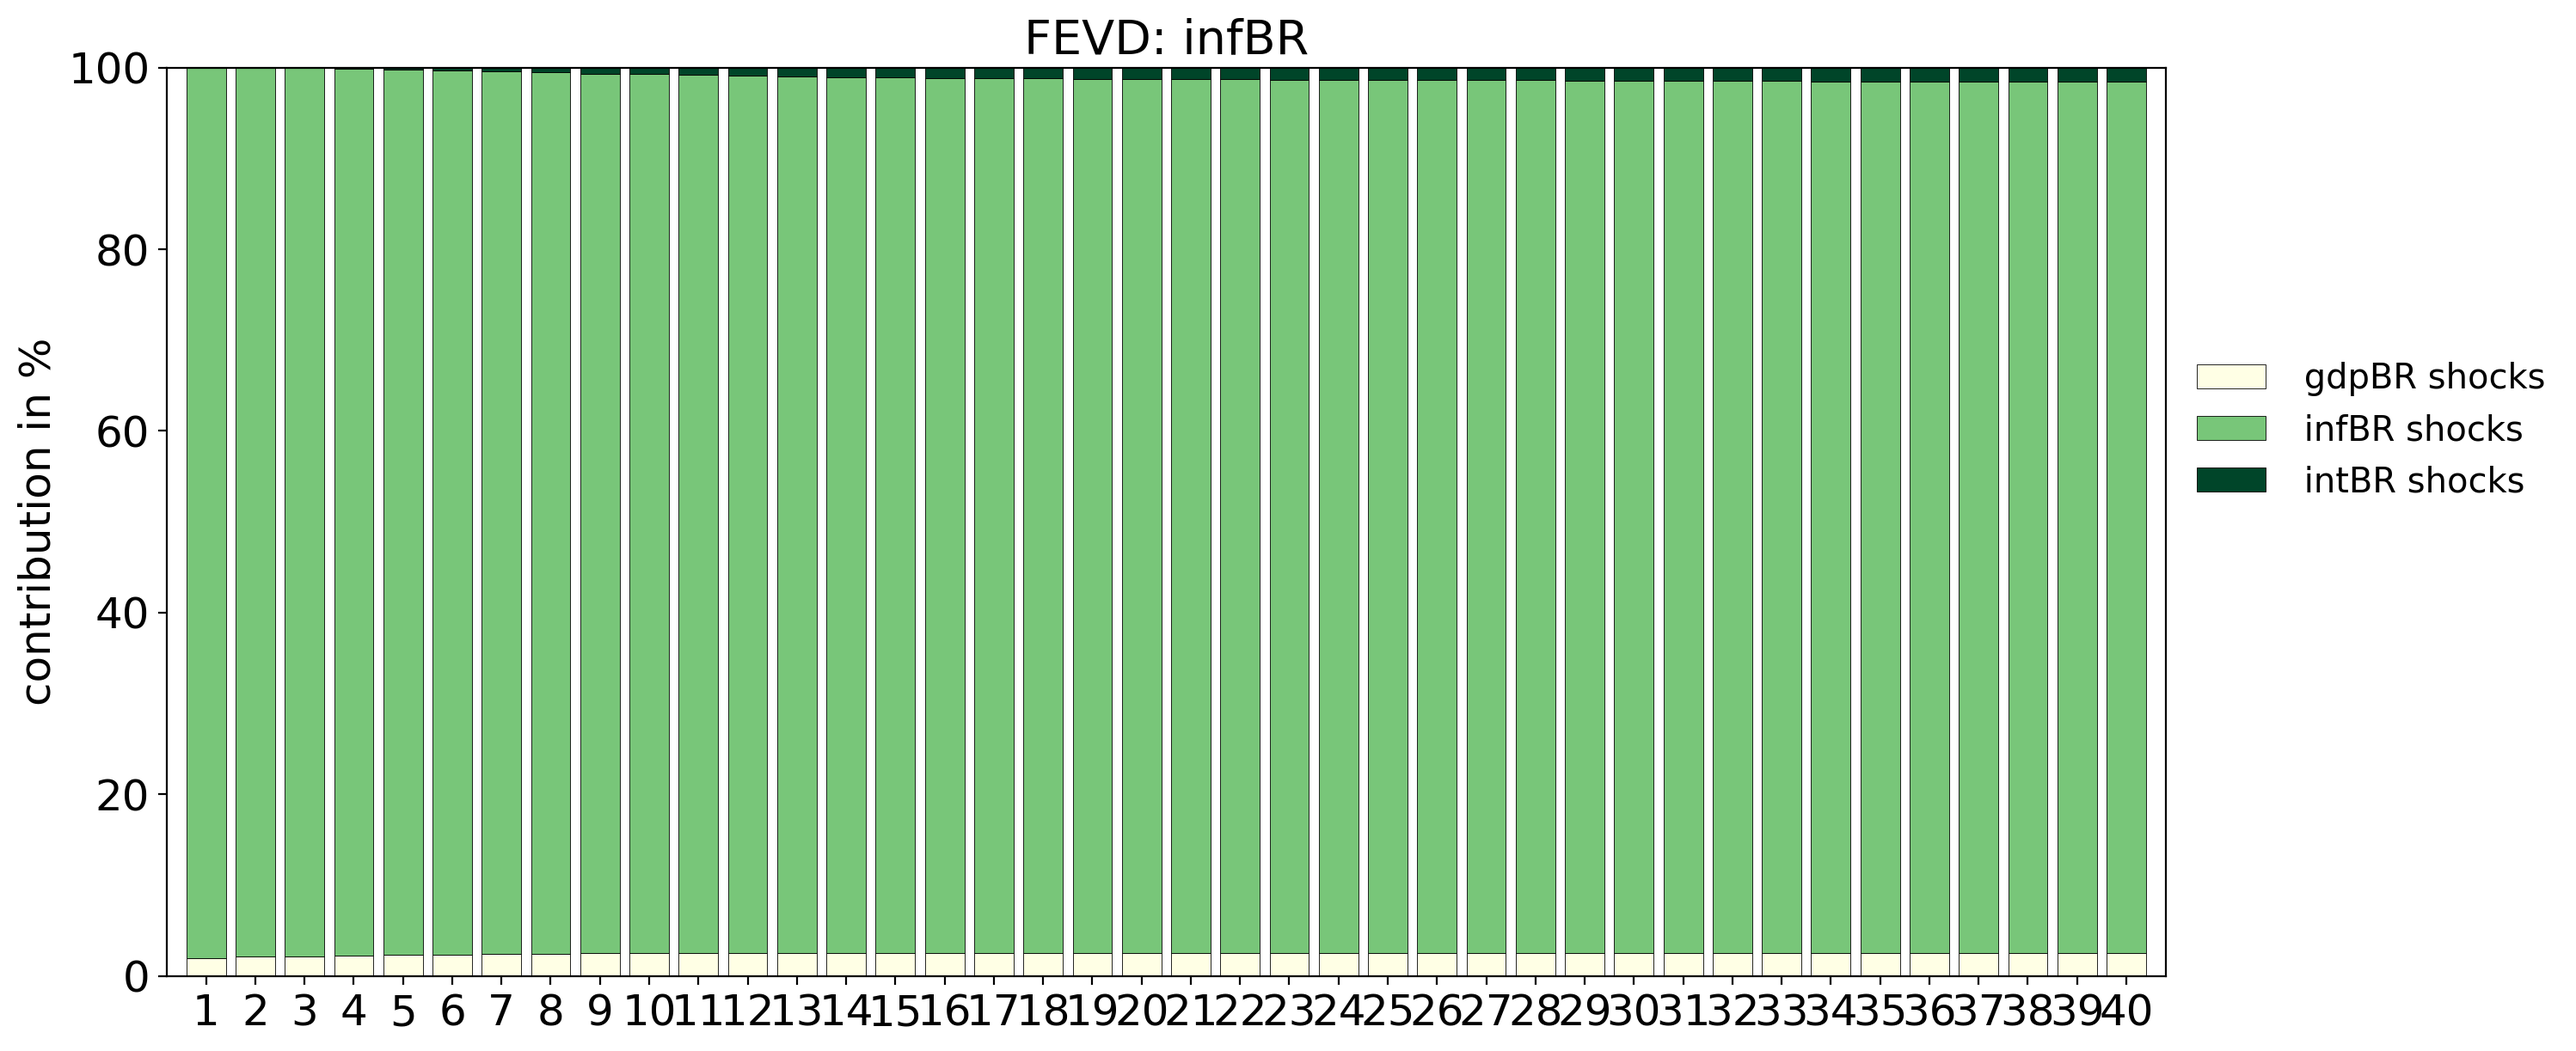
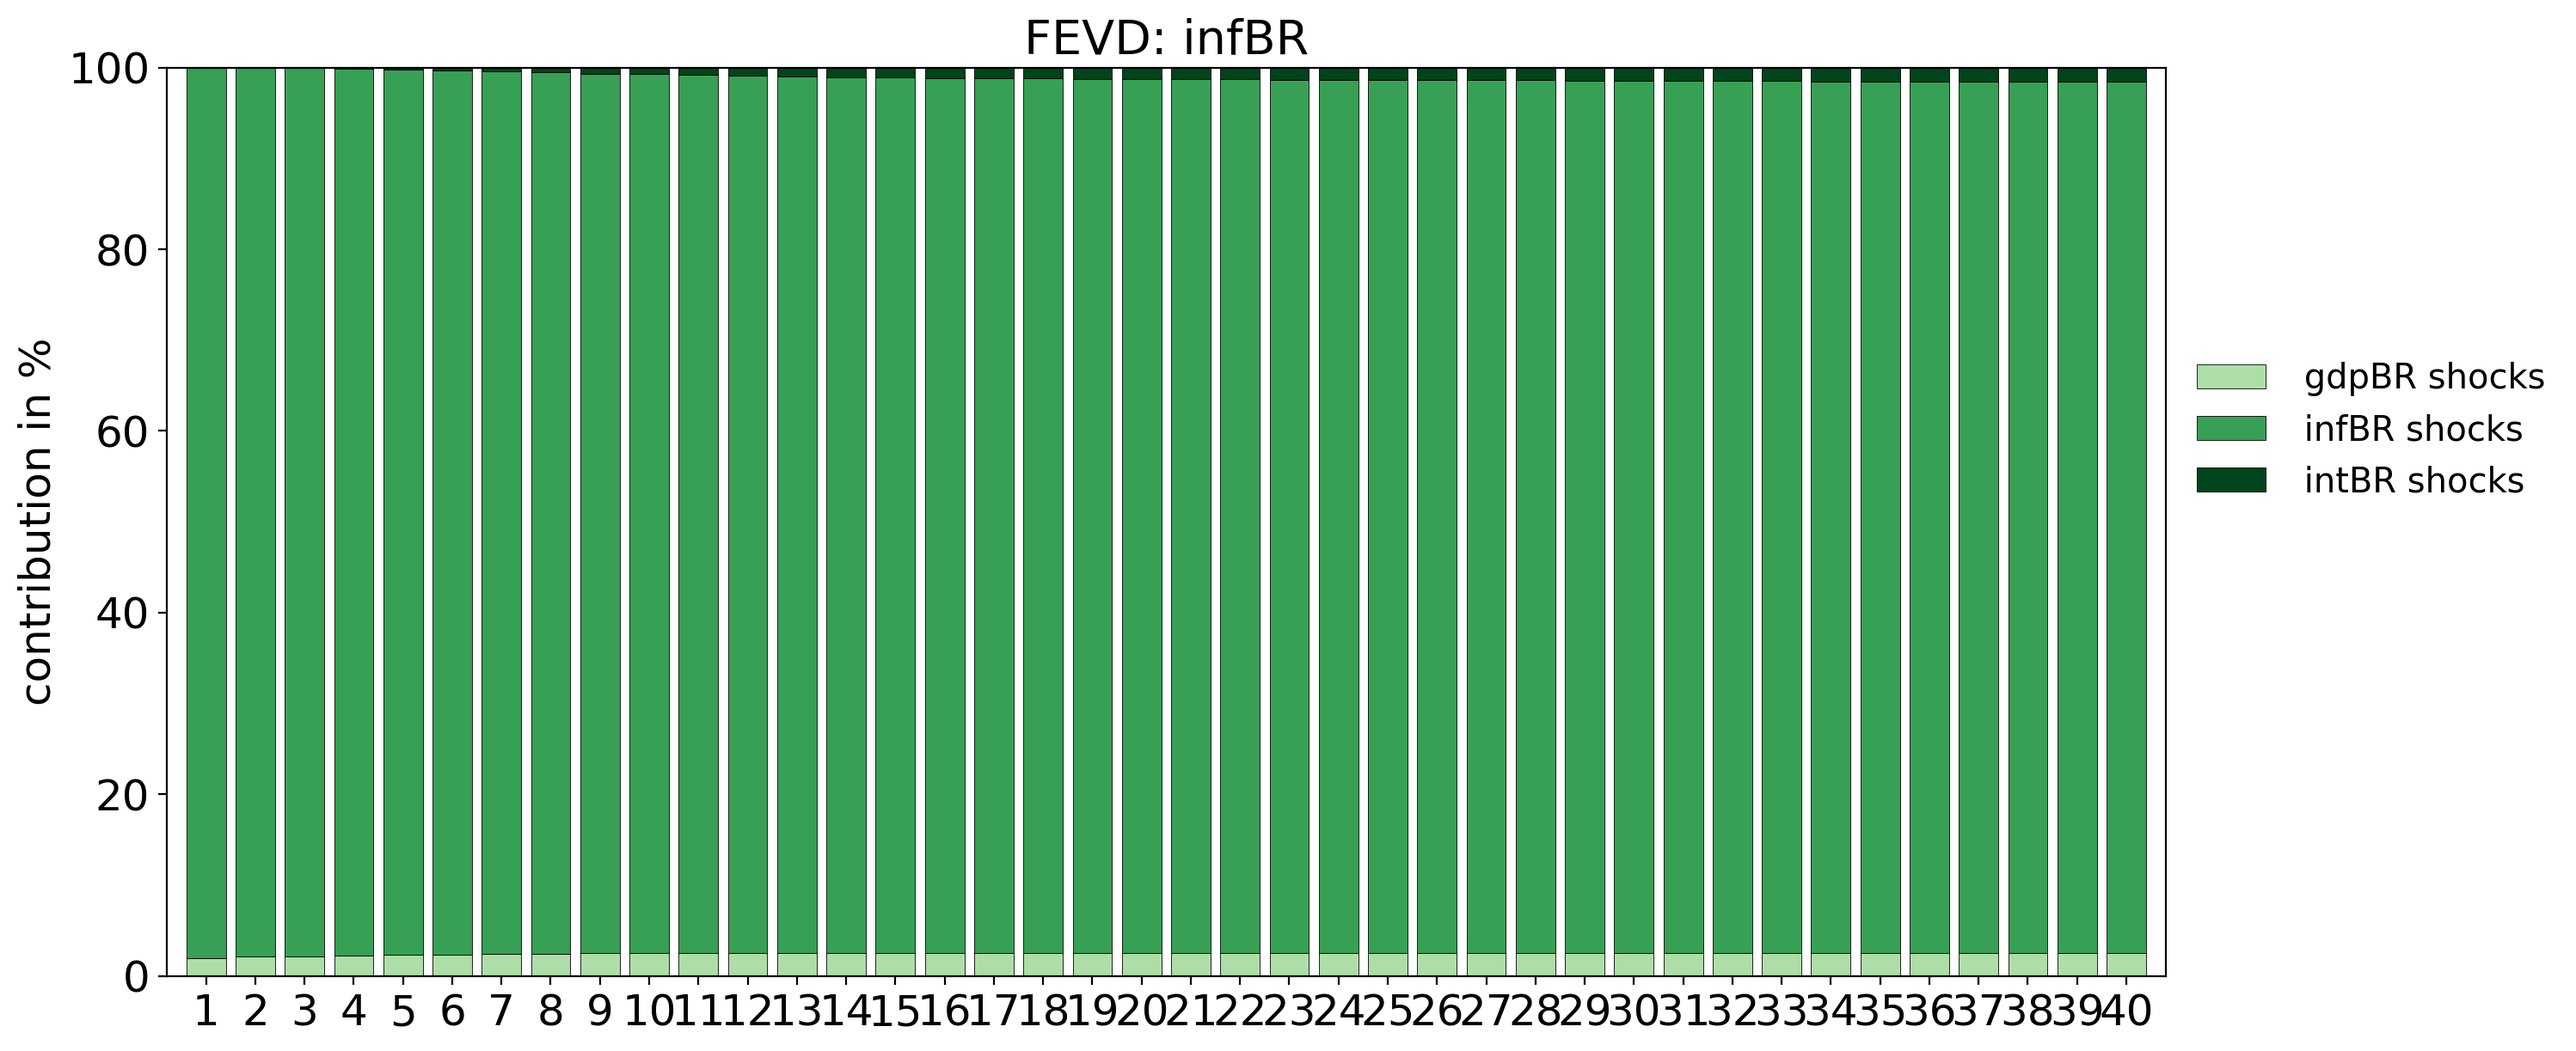
add HD plot section

diff --git a/model_charts/Plot_IRF_FEVD_HD.py b/model_charts/Plot_IRF_FEVD_HD.py
@@ -36,8 +36,8 @@ res = ["IRF", "FEVD", "HD"]
 res_bear = ["IRF", "FEVD", "hist decomp"]
 cc = ["BR", "MX"]
 country_long = ["Brazil", "Mexico"]
-colors = ["g", "b"]  #, "k", "m", "c", "r", "y", "k"]
-palettes = ["YlGn", "PuBu"]  #, "bone_r", "RdPu", "BrBG", "YlOrRd"]
+colors = ["g", "b"] 
+palettes = ["Greens", "Blues"] 
 
 xls = {}
 data = {}
@@ -159,7 +159,7 @@ bar_width = 0.8
 delim = 32  # adapt values to isolate correct string from label
 
 for i, k in zip(cc, palettes):
-    col_pal[i] = cm.get_cmap(k, v)
+    col_pal[i] = cm.get_cmap(k, v+1)  # avoid white in cmap
     for row in range(v):
         alphas.append(1.0-(1/v*row))  # alphas equal to number of variables
         FEVD_median[str(row+1)] = []
@@ -182,7 +182,7 @@ for i, k in zip(cc, palettes):
             lbl = label["FEVD"][i]["FEVD_"+str(row+1)+"_"+str(col+1)]
             ax.bar(bar1, FEVD_plot[str(row+1)][col],
                    bottom=np.sum(FEVD_plot[str(row+1)][:col], axis=0),
-                   width=bar_width, label=lbl[delim:], color=col_pal[i](col),  # delim
+                   width=bar_width, label=lbl[delim:], color=col_pal[i](col+1),  # delim
                    edgecolor="k", linewidth=0.3) 
 
         ax.tick_params(axis="both", labelsize=18)
@@ -203,107 +203,62 @@ for i, k in zip(cc, palettes):
 
 # Plot HD
 # =============================================================================
+HD_median = {}
+HD_total = {}
+HD_plot = {}
+HD_cumulated_data = {}
+HD_cumulated_data_neg = {}
+HD_row_mask = {}
+HD_stacked_data = {}
 
+col_pal = {}
 
-#-----------------------------------------------------------------------------
-# appendix
-#-----------------------------------------------------------------------------
+bar_width = 0.8
 
-# preamble countries
-#--------------------
-# colours = ["g", "b", "k", "m", "c", "r"]
-# palettes = ["YlGn", "PuBu", "bone_r", "RdPu", "BrBG", "YlOrRd"]
-# country = ["ID", "IN", "KR", "MY", "PH", "TH"]
-# country_long = ["indonesia", "india", "korea", "malaysia", "philippines", "thailand"]
+def get_cumulated_array(data, **kwargs):
+    cum = data.clip(**kwargs)
+    cum = np.cumsum(cum, axis=0)
+    df = np.zeros(np.shape(data))
+    df[1:] = cum[:-1]
+    return df
 
-# preamble FEVD and HD
-#----------------------
-# FEVD_median = {}
-# FEVD_total = {}
-# FEVD_rel_median = {}
-# FEVD_plot = {}
+for i, k in zip(cc, palettes):
+    col_pal[i] = cm.get_cmap(k, v+1)  # avoid white in cmap
+    for row in range(v):
+        HD_median[str(row+1)] = []
+        for col in range(v):
+            median = output["HD"][i]["HD_"+str(row+1)+"_"+str(col+1)]["median"]
+            bar2 = [i for i in range(len(median))]
+            tick2 = [i for i in bar2]
+            HD_median[str(row+1)].append(median)
+        HD_total[str(row+1)] = list(map(sum, zip(*HD_median[str(row+1)])))
+        HD_plot[str(row+1)] = np.zeros([v, t-1])
+        for col in range(v):
+            HD_plot[str(row+1)][col, :] = HD_median[str(row+1)][col].values
+        HD_cumulated_data[str(row+1)] = get_cumulated_array(HD_plot[str(row+1)], min=0)
+        HD_cumulated_data_neg[str(row+1)] = get_cumulated_array(HD_plot[str(row+1)], max=0)
+        HD_row_mask[str(row+1)] = (HD_plot[str(row+1)] < 0)
+        HD_cumulated_data[str(row+1)][HD_row_mask[str(row+1)]] = HD_cumulated_data_neg[str(row+1)][HD_row_mask[str(row+1)]]
+        HD_stacked_data[str(row+1)] = HD_cumulated_data[str(row+1)]
 
-# HD_median = {}
-# HD_total = {}
-# HD_plot = {}
-# HD_cumulated_data = {}
-# HD_cumulated_data_neg = {}
-# HD_row_mask = {}
-# HD_stacked_data = {}
+        fig, ax = plt.subplots(1, figsize=(15, 7))
+        for col in range(v):
+            lbl = label["HD"][i]["HD_"+str(row+1)+"_"+str(col+1)]
+            ax.bar(bar2, HD_plot[str(row+1)][col],
+                   bottom=HD_stacked_data[str(row+1)][col],
+                   width=bar_width, label=lbl[16:-20],  # adapt values to isolate correct string from label
+                   color=col_pal[i](col+1), edgecolor="k", linewidth=0.1)
+        ax.plot(bar2, HD_total[str(row+1)], color="k", linewidth=5, label="actual")
 
-# bar_width = 0.8
-# alphas = []
-# for i in range(v):
-#     alphas.append(1.0-(1/v*i))  # alphas equal to number of variables
-# col_pal = {}
-# for i in range(len(country)):
-#     col_pal["palette"+"_"+country[i]] = cm.get_cmap(palettes[i], v)
+        ax.tick_params(axis="both", labelsize=18)
+        plt.xticks(np.arange(0, len(tick2), 4), [median.index[j][:-2] for j in np.arange(0, len(tick2), 4)], rotation='vertical')
+        plt.xlim([min(tick2)-bar_width, max(tick2)+bar_width])
+        ax.patch.set_facecolor("white")
+        ax.grid(color="k", alpha=0.2, linewidth=0.5, linestyle="--")
 
-# def get_cumulated_array(data, **kwargs):
-#     cum = data.clip(**kwargs)
-#     cum = np.cumsum(cum, axis=0)
-#     df = np.zeros(np.shape(data))
-#     df[1:] = cum[:-1]
-#     return df
+        ax.set_title("HD:" + lbl[32:-12], fontsize=20)  # adapt values to isolate correct string from label
+        ax.set_ylabel("contribution to fluctuation", fontsize=18)
+        # ax.set_xlabel("sample")
+        ax.legend(loc="center left", fontsize="x-large", bbox_to_anchor=(1, 0.6), frameon=False)
 
-# plotting FEVD and HD
-#----------------------
-# for row in range(v):
-    #     # FEVD
-    #     FEVD_median["FEVD_median"+"_"+str(row+1)] = []
-    #     for col in range(v):
-    #         bar_l_1 = [i+1 for i in range(len(output["output_"+res[1]]["output_"+res[1]+"_"+str(country[i])][res[1]+"_"+str(country[i])+"_"+str(row+1)+"_"+str(col+1)]["median"]))]
-    #         tick_pos_1 = [i for i in bar_l_1]
-    #         FEVD_median["FEVD_median"+"_"+str(row+1)].append(output["output_"+res[1]]["output_"+res[1]+"_"+str(country[i])][res[1]+"_"+str(country[i])+"_"+str(row+1)+"_"+str(col+1)]["median"])
-    #     FEVD_total["FEVD_total"+"_"+str(row+1)] = list(map(sum, zip(*FEVD_median["FEVD_median"+"_"+str(row+1)])))
-    #     for col in range(v):
-    #         FEVD_rel_median["FEVD_rel_median"+"_"+str(row+1)+"_"+str(col+1)] = (FEVD_median["FEVD_median"+"_"+str(row+1)][col] / FEVD_total["FEVD_total"+"_"+str(row+1)])*100
-    #     FEVD_plot["FEVD_plot"+"_"+str(row+1)] = np.zeros([v, r-2])
-    #     for col in range(v):
-    #         FEVD_plot["FEVD_plot"+"_"+str(row+1)][col, :] = FEVD_rel_median["FEVD_rel_median_"+str(row+1)+"_"+str(col+1)].values
-    #     fig, ax = plt.subplots(1, figsize=(15, 7))
-    #     for col in range(v):
-    #         ax.bar(bar_l_1, FEVD_plot["FEVD_plot"+"_"+str(row+1)][col], bottom=np.sum(FEVD_plot["FEVD_plot"+"_"+str(row+1)][:col], axis=0),  width=bar_width, label="contribution of "+label["label_"+res[1]]["label_"+res[1]+"_"+str(country[i])][res[1]+"_"+str(country[i])+"_"+str(row+1)+"_"+str(col+1)][36:], color=col_pal["palette"+"_"+str(country[i])](col), edgecolor="k", linewidth=0.3) # alpha=alphas[col],
-    #     ax.tick_params(axis="both", labelsize=18) ###
-    #     plt.xticks(tick_pos_1, bar_l_1)
-    #     plt.xlim([min(tick_pos_1)-bar_width, max(tick_pos_1)+bar_width])
-    #     plt.ylim(0, 100)
-    #     ax.patch.set_facecolor("white")
-    #     ax.legend(loc="center left", fontsize="x-large", bbox_to_anchor=(1, 0.6), frameon=False)
-    #     ax.set_ylabel("Variability of "+label["label_"+res[1]]["label_"+res[1]+"_"+str(country[i])][res[1]+"_"+str(country[i])+"_"+str(row+1)+"_"+str(1)][8:-34], fontsize=18)
-    #     #ax.set_xlabel("horizon")
-    #     #ax.set_ylabel("contribution in %")
-    #     #ax.set_title(res[1]+": "+label["label_"+res[1]]["label_"+res[1]+"_"+str(country[i])][res[1]+"_"+str(country[i])+"_"+str(row+1)+"_"+str(1)][8:-35])  # positions to isolate title from string in labels
-    #     fig.savefig(os.path.join(OUTPUTS["OUTPUTS_"+str(country[i])], res[1]+"_"+str(country[i])+"_"+str(row+1)+".png"), dpi=200, bbox_inches="tight")
-    #     fig.savefig(os.path.join(OUTPUTS["OUTPUTS_"+str(country[i])], res[1]+"_"+str(country[i])+"_"+str(row+1)+".pdf"), dpi=200, bbox_inches="tight")
-    # for row in range(v):
-    #     # HD
-    #     HD_median["HD_median"+"_"+str(row+1)] = []
-    #     for col in range(v):
-    #         bar_l_2 = [i for i in range(len(output["output_"+res[2]]["output_"+res[2]+"_"+str(country[i])][res[2]+"_"+str(country[i])+"_"+str(row+1)+"_"+str(col+1)]["median"]))]
-    #         tick_pos_2 = [i for i in bar_l_2]
-    #         HD_median["HD_median"+"_"+str(row+1)].append(output["output_"+res[2]]["output_"+res[2]+"_"+str(country[i])][res[2]+"_"+str(country[i])+"_"+str(row+1)+"_"+str(col+1)]["median"])
-    #     HD_total["HD_total"+"_"+str(row+1)] = list(map(sum, zip(*HD_median["HD_median"+"_"+str(row+1)])))
-    #     HD_plot["HD_plot"+"_"+str(row+1)] = np.zeros([v, r_2-2])
-    #     for col in range(v):
-    #         HD_plot["HD_plot"+"_"+str(row+1)][col, :] = HD_median["HD_median_"+str(row+1)][col].values
-    #     HD_cumulated_data["HD_cumulated"+"_"+str(row+1)] = get_cumulated_array(HD_plot["HD_plot"+"_"+str(row+1)], min=0)
-    #     HD_cumulated_data_neg["HD_cumulated_neg"+"_"+str(row+1)] = get_cumulated_array(HD_plot["HD_plot"+"_"+str(row+1)], max=0)
-    #     HD_row_mask["HD_row_mask"+"_"+str(row+1)] = (HD_plot["HD_plot"+"_"+str(row+1)] < 0)
-    #     HD_cumulated_data["HD_cumulated"+"_"+str(row+1)][HD_row_mask["HD_row_mask"+"_"+str(row+1)]] = HD_cumulated_data_neg["HD_cumulated_neg"+"_"+str(row+1)][HD_row_mask["HD_row_mask"+"_"+str(row+1)]]
-    #     HD_stacked_data["HD_stacked_data"+"_"+str(row+1)] = HD_cumulated_data["HD_cumulated"+"_"+str(row+1)]
-    #     fig, ax = plt.subplots(1, figsize=(15, 7))
-    #     for col in range(v):
-    #         ax.bar(bar_l_2, HD_plot["HD_plot"+"_"+str(row+1)][col], bottom=HD_stacked_data["HD_stacked_data"+"_"+str(row+1)][col],  width=bar_width, label=label["label_"+res[2]]["label_"+res[2]+"_"+str(country[i])][res[2]+"_"+str(country[i])+"_"+str(row+1)+"_"+str(col+1)][:-24], color=col_pal["palette"+"_"+str(country[i])](col), edgecolor="k", linewidth=0.1) # alpha=alphas[col],
-    #     ax.plot(bar_l_2, HD_total["HD_total"+"_"+str(row+1)], color="k", linewidth=5, label="actual")
-    #     ax.tick_params(axis="both", labelsize=18) ###
-    #     plt.xticks(np.arange(0, len(tick_pos_2), 4), [output["output_"+res[2]]["output_"+res[2]+"_"+str(country[i])][res[2]+"_"+str(country[i])+"_"+str(row+1)+"_"+str(col+1)].index[j][:-2] for j in np.arange(0, len(tick_pos_2), 4)], rotation='vertical')
-    #     plt.xlim([min(tick_pos_2)-bar_width, max(tick_pos_2)+bar_width])
-    #     ax.patch.set_facecolor("white")
-    #     ax.grid(color="k", alpha=0.2, linewidth=0.5, linestyle="--")
-    #     ax.legend(loc="center left", fontsize="x-large", bbox_to_anchor=(1, 0.6), frameon=False)
-    #     ax.set_ylabel("Fluctuations of "+label["label_"+res[2]]["label_"+res[2]+"_"+str(country[i])][res[2]+"_"+str(country[i])+"_"+str(row+1)+"_"+str(1)][35:-11], fontsize=18)
-    #     #ax.set_ylabel("contribution to fluctuation")
-    #     #ax.set_title(res[2]+": "+label["label_"+res[2]]["label_"+res[2]+"_"+str(country[i])][res[2]+"_"+str(country[i])+"_"+str(row+1)+"_"+str(1)][35:-11])  # positions to isolate title from string in labels
-    #     fig.savefig(os.path.join(OUTPUTS["OUTPUTS_"+str(country[i])], res[2]+"_"+str(country[i])+"_"+str(row+1)+".png"), dpi=200, bbox_inches="tight")
-    #     fig.savefig(os.path.join(OUTPUTS["OUTPUTS_"+str(country[i])], res[2]+"_"+str(country[i])+"_"+str(row+1)+".pdf"), dpi=200, bbox_inches="tight")
+        fig.savefig(os.path.join(OUTPUTS[i], "HD_"+i+"_"+str(row+1)+".png"), dpi=200, bbox_inches="tight")
